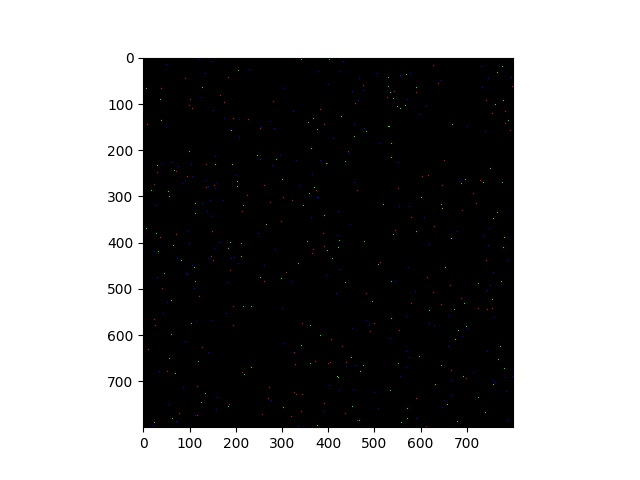
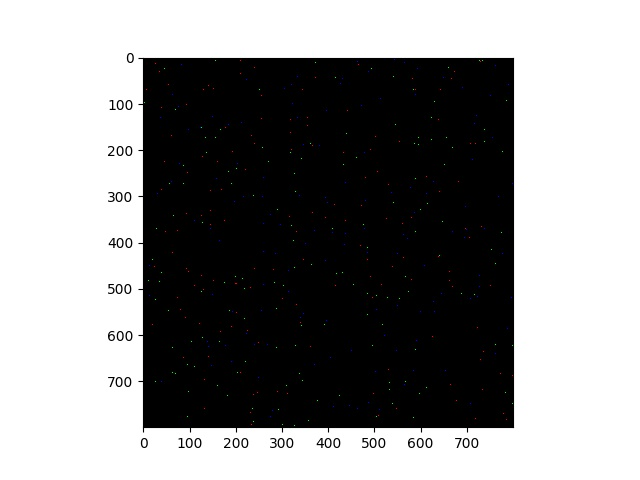
added normalization wrapper to eliminate need for inverse normalization

diff --git a/main.py b/main.py
@@ -6,11 +6,13 @@ from numpy.random import default_rng
 from matplotlib import pyplot as plt
 import math
 import torch
+import torch.nn as nn
 from torchvision import transforms
 from cleverhans.torch.attacks.fast_gradient_method import fast_gradient_method
 from cleverhans.torch.attacks.projected_gradient_descent import (
     projected_gradient_descent,
 )
+from facenet_pytorch import InceptionResnetV1
 
 device = "cuda" if torch.cuda.is_available() else "cpu"
 
@@ -19,10 +21,17 @@ alpha = .01 # Percentage of permutated pixels
 mobilenet_mean=[0.485, 0.456, 0.406]
 mobilenet_std=[0.229, 0.224, 0.225]
 
-def inverse_normalize(tensor, mean, std):
-    for t, m, s in zip(tensor, mean, std):
-        t.mul_(s).add_(m)
-    return tensor
+class Normalize(nn.Module):
+    def __init__(self, mean, std) :
+        super(Normalize, self).__init__()
+        self.register_buffer('mean', torch.Tensor(mean))
+        self.register_buffer('std', torch.Tensor(std))
+        
+    def forward(self, input):
+        # Broadcasting
+        mean = self.mean.reshape(1, 3, 1, 1)
+        std = self.std.reshape(1, 3, 1, 1)
+        return (input - mean) / std
 
 # FaceLib outputs scores so we can use the same L function as Yolo
 def loss(z, m):
@@ -75,28 +84,49 @@ def mobilenet_preprocess(x):
 def cleverhans_pgd(x):
 
     # Transform x to be usable by Mobilenet
-    x = mobilenet_preprocess(x)
-    
+    #x = mobilenet_preprocess(x)
+    #x = torch.tensor(x)
+    preprocess_ = transforms.Compose([
+        transforms.Resize(256),
+        transforms.CenterCrop(224),
+        transforms.ToTensor(),
+    ])
+
+    x = preprocess_(x)
+    x = x.unsqueeze(0).to(device)
+
     # As a test - convert the x back to an image to ensure the image before PGD looks the same
-    test_input = inverse_normalize(tensor=x,mean=mobilenet_mean, std=mobilenet_std)
-    test_input = flipRGB(test_input)
-    test_input = test_input.detach().cpu().numpy()
-    test_input_image = Image.fromarray((test_input * 255).astype(np.uint8)).convert('RGB')
-    test_input_image.save('input.jpeg')
+    # test_input = inverse_normalize(tensor=x,mean=mobilenet_mean, std=mobilenet_std)
+    # test_input = flipRGB(test_input)
+    # test_input = test_input.detach().cpu().numpy()
+    # test_input_image = Image.fromarray((test_input * 255).astype(np.uint8)).convert('RGB')
+    # test_input_image.save('input.jpeg')
 
     #Acquire the model to do PGD on
     model = torch.hub.load('pytorch/vision:v0.8.0', 'mobilenet_v2', pretrained=True) # Facelib uses the Mobilenet model
     model.to(device)
 
+    norm_layer = Normalize(mean=mobilenet_mean, std=mobilenet_std)
+
+    model = nn.Sequential(
+        norm_layer,
+        model
+    ).to(device)
+
+    model = model.eval()
+
+    # For a model pretrained on VGGFace2
+    #model = InceptionResnetV1(pretrained='vggface2').eval().to(device)
+
     # Run through PGD
     epsilon = .01
     epsilon_iter = 0.001
     nb_iter = 40
-    #x = projected_gradient_descent(model, x, epsilon, epsilon_iter, nb_iter, np.inf)
-    x = fast_gradient_method(model, x, epsilon, np.inf)
+    x = projected_gradient_descent(model, x, epsilon, epsilon_iter, nb_iter, np.inf)
+    #x = fast_gradient_method(model, x, epsilon, np.inf)
 
     # Unnormalize
-    x = inverse_normalize(tensor=x,mean=mobilenet_mean, std=mobilenet_std)
+    #x = inverse_normalize(tensor=x,mean=mobilenet_mean, std=mobilenet_std)
 
     # Reshape the tensor
     x = flipRGB(x)
